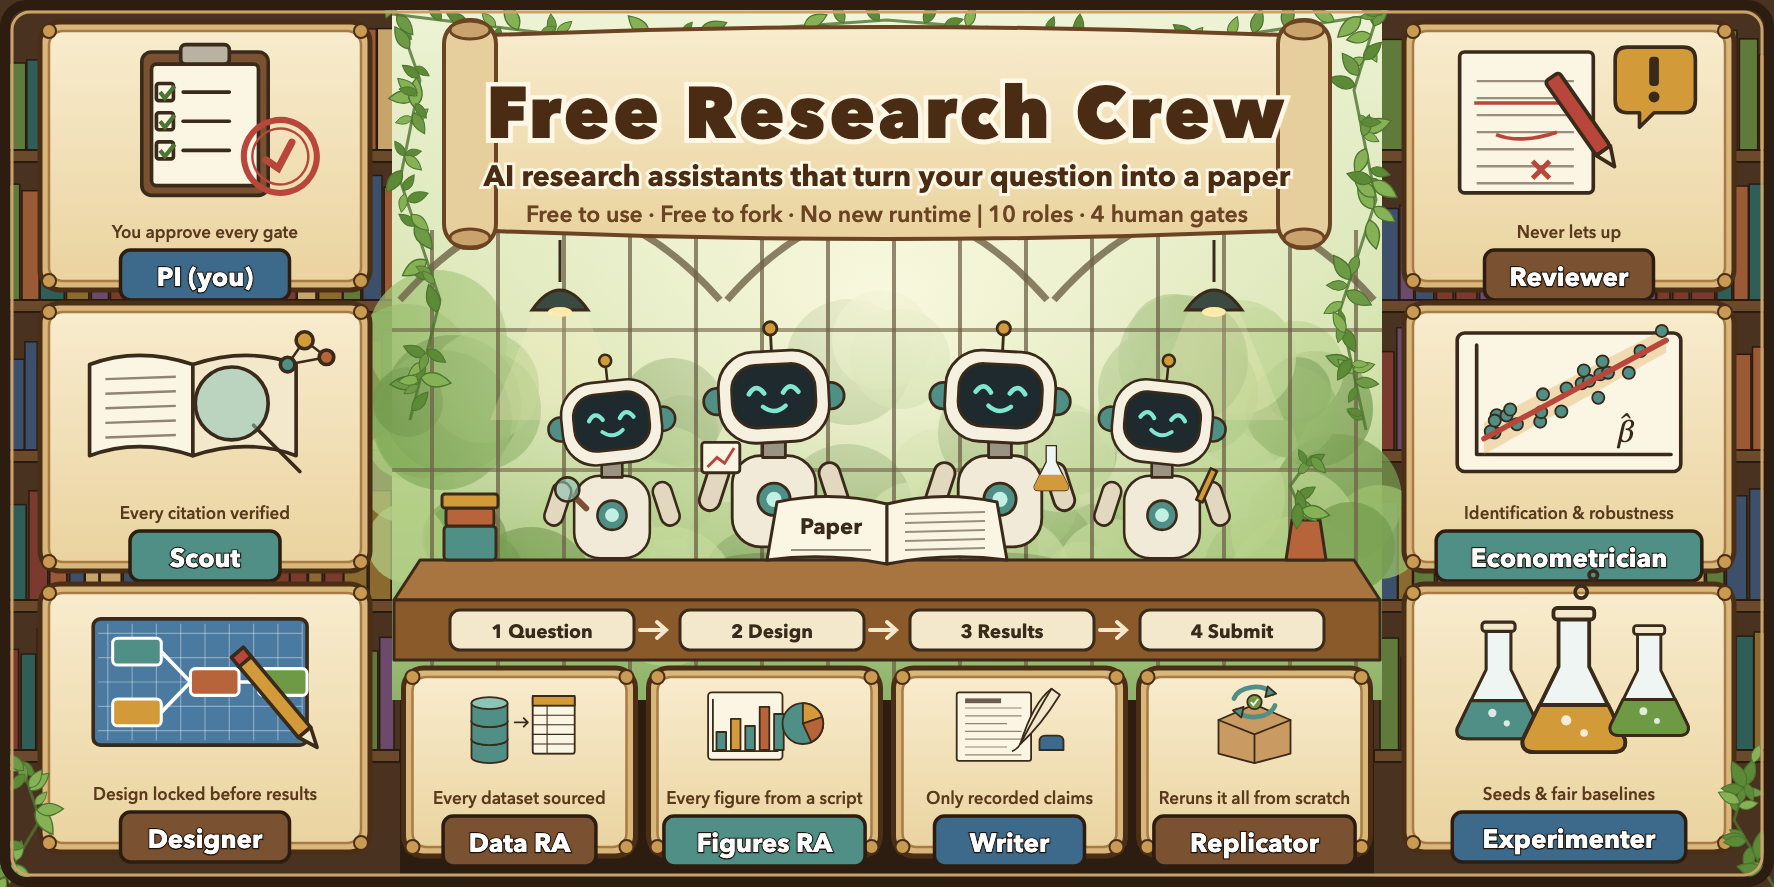
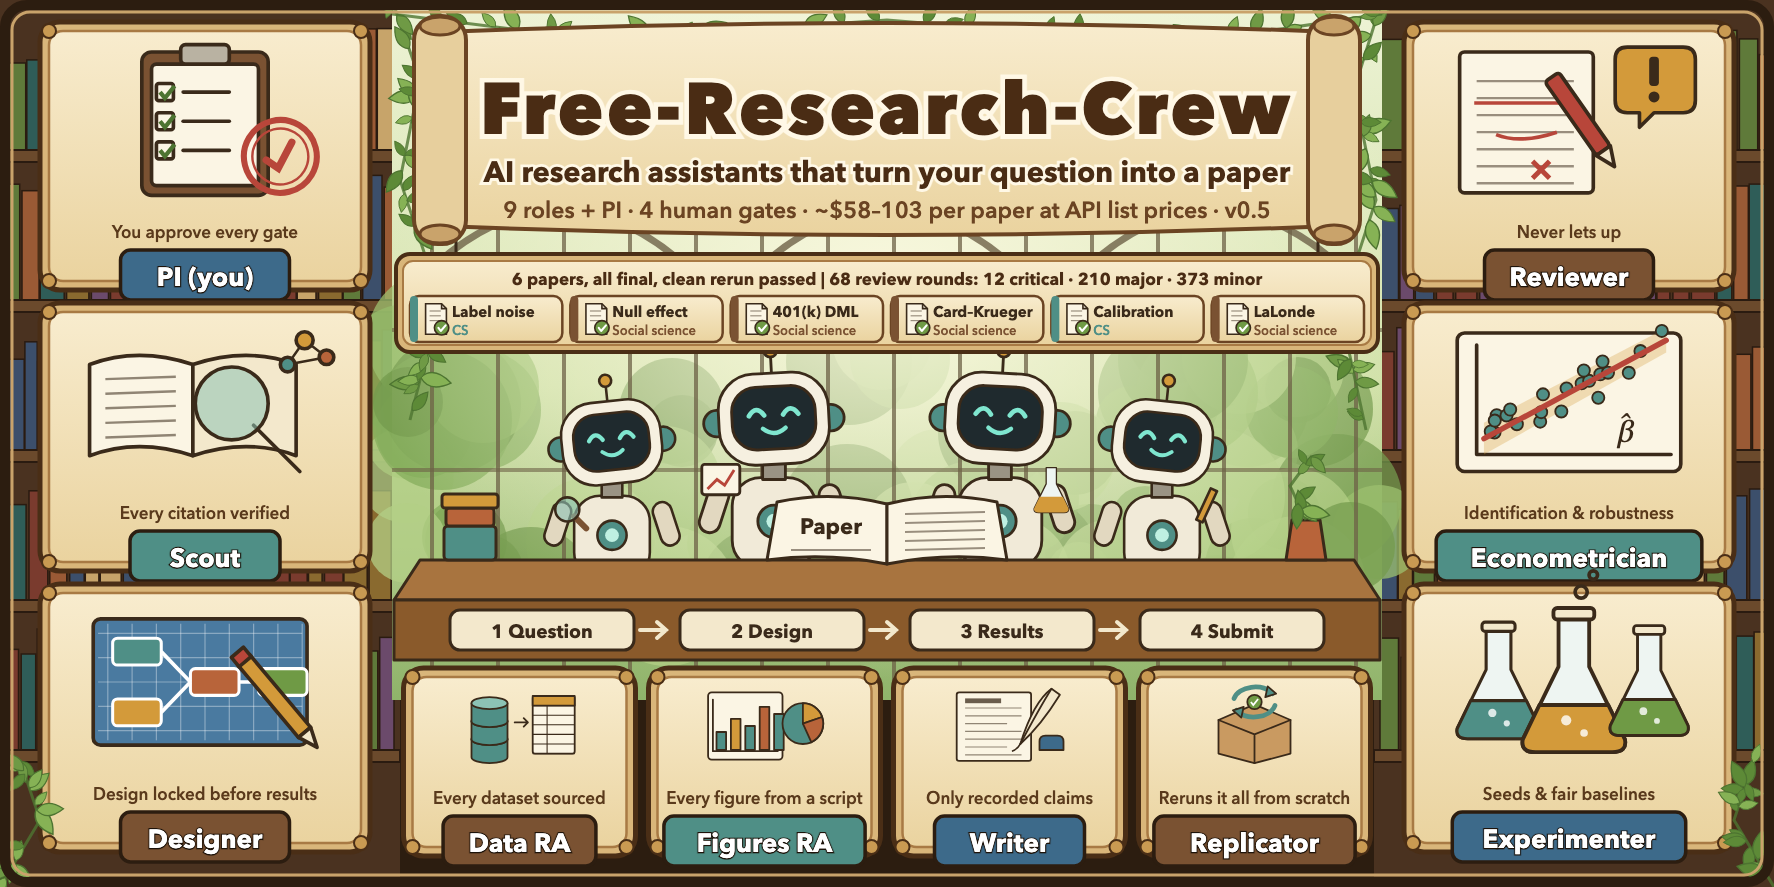
docs(readme): cover posters show the finished crew and its six gallery papers
Extend assets/poster/build_poster.py with a gallery shelf (six final papers,
68 review rounds, 12 critical / 210 major / 373 minor findings), a banner stats
line (9 roles + PI, 4 human gates, ~$58-103 per paper, v0.5) and the
Free-Research-Crew title; copy the rendered PNGs over readme_cn.png and readme.png.

Changed region(s): [[0.217, 0.0, 0.7751, 0.6392]]

diff --git a/assets/poster/build_poster.py b/assets/poster/build_poster.py
@@ -2,8 +2,10 @@
 """Build the "Free Research Crew" poster (CN + EN) as SVG, and PNG via headless Chrome.
 
 Same canvas (1774x887) and storybook palette as the README covers readme_cn.png /
-readme.png: a greenhouse library, a parchment title scroll, and framed parchment
-cards — here one card per crew role.
+readme.png: a greenhouse library, a parchment title scroll, framed parchment cards (one
+per crew role) and a gallery shelf with the six finished papers. The PNGs are copied
+over readme_cn.png / readme.png. Every number on the poster comes from gallery/README.md,
+gallery/scoreboard.json, gallery/usage.json and docs/launch/release-v0.5.md.
 
     python3 assets/poster/build_poster.py          # writes SVG + PNG next to this file
     python3 assets/poster/build_poster.py --svg-only
@@ -38,12 +40,20 @@ SLATE = "#3d6a8a"
 TEXT = {
     "cn": {
         "font": "'PingFang SC','Hiragino Sans GB','Noto Sans CJK SC',sans-serif",
-        "title": "免费助研团",
-        "title_size": 104,
+        "title": '<tspan font-size="41" letter-spacing="1">Free-Research-Crew</tspan> 免费助研团',
+        "title_size": 66,
         "subtitle": "一支 AI 助研团队，把你的研究问题做成一篇完整论文",
         "sub_size": 31,
-        "stats": "免费使用 · 自由修改 · 无需新环境 ｜ 10 个角色 · 4 道人工关卡",
+        "stats": "9 位助研 + PI · 4 道人工关卡 · 每篇约 $58–103（API 标价）· v0.5",
         "stats_size": 25,
+        "shelf": "论文画廊：6 篇全部定稿，干净重跑通过 ｜ 68 轮审稿：12 致命 · 210 重大 · 373 次要问题",
+        "shelf_size": 19,
+        "chip_size": 17,
+        "track": {"cs": "计算机", "ss": "社会科学"},
+        "papers": [
+            ("cs", "标签噪声"), ("ss", "零效应检验"), ("ss", "401(k) DML"),
+            ("ss", "最低工资"), ("cs", "概率校准"), ("ss", "LaLonde"),
+        ],
         "paper": "论文",
         "gates": ["① 问题", "② 设计", "③ 结果", "④ 投稿"],
         "gate_size": 22,
@@ -64,12 +74,20 @@ TEXT = {
     },
     "en": {
         "font": "'Avenir Next','Helvetica Neue',Arial,sans-serif",
-        "title": "Free Research Crew",
+        "title": "Free-Research-Crew",
         "title_size": 72,
         "subtitle": "AI research assistants that turn your question into a paper",
         "sub_size": 29,
-        "stats": "Free to use · Free to fork · No new runtime  |  10 roles · 4 human gates",
+        "stats": "9 roles + PI · 4 human gates · ~$58–103 per paper at API list prices · v0.5",
         "stats_size": 23,
+        "shelf": "6 papers, all final, clean rerun passed  |  68 review rounds: 12 critical · 210 major · 373 minor",
+        "shelf_size": 17,
+        "chip_size": 15,
+        "track": {"cs": "CS", "ss": "Social science"},
+        "papers": [
+            ("cs", "Label noise"), ("ss", "Null effect"), ("ss", "401(k) DML"),
+            ("ss", "Card–Krueger"), ("cs", "Calibration"), ("ss", "LaLonde"),
+        ],
         "paper": "Paper",
         "gates": ["1 Question", "2 Design", "3 Results", "4 Submit"],
         "gate_size": 19,
@@ -333,15 +351,6 @@ def greenhouse(rnd: random.Random) -> str:
     return out
 
 
-def lamp(x: float) -> str:
-    return (
-        f'<line x1="{x}" y1="240" x2="{x}" y2="282" stroke="{INK}" stroke-width="3"/>'
-        f'<path d="M{x - 28} 310 Q{x} 270 {x + 28} 310 Z" fill="#3b4a40" stroke="{INK}" stroke-width="3"/>'
-        f'<ellipse cx="{x}" cy="312" rx="12" ry="5" fill="#ffe9a8"/>'
-        f'<path d="M{x - 26} 312 L{x - 70} 420 L{x + 70} 420 L{x + 26} 312 Z" fill="#fff3c4" opacity=".22"/>'
-    )
-
-
 def robot(x: float, y: float, s: float, held: str, look: float = 0) -> str:
     """A friendly crew robot, feet at (x, y)."""
     held_svg = {
@@ -374,12 +383,11 @@ def robot(x: float, y: float, s: float, held: str, look: float = 0) -> str:
 
 
 def scene(t: dict) -> str:
-    out = lamp(560) + lamp(1214)
     # robots behind the desk
-    out += robot(612, 572, 0.86, "lens", -6)
-    out += robot(774, 562, 0.95, "chart", -3)
-    out += robot(1000, 562, 0.95, "flask", 3)
-    out += robot(1162, 572, 0.86, "pen", 6)
+    out = robot(612, 592, 0.86, "lens", -6)
+    out += robot(774, 584, 0.95, "chart", -3)
+    out += robot(1000, 584, 0.95, "flask", 3)
+    out += robot(1162, 592, 0.86, "pen", 6)
     # desk
     out += (
         f'<path d="M420 560 H1354 L1380 600 H394 Z" fill="#a8743f" {S} stroke-width="4"/>'
@@ -442,8 +450,44 @@ def card(x: float, y: float, w: float, h: float, role: str, color: str, t: dict)
     )
 
 
+def paper_chip(x: float, y: float, w: float, h: float, track: str, name: str, t: dict) -> str:
+    """One finished gallery paper: a small paper with a green 'final' seal, name and track."""
+    c = TEAL if track == "cs" else BROWN
+    return (
+        f'<rect x="{x}" y="{y}" width="{w}" height="{h}" rx="9" fill="url(#parch)" stroke="#6b4423" stroke-width="2.5"/>'
+        f'<rect x="{x}" y="{y}" width="8" height="{h}" rx="4" fill="{c}"/>'
+        f'<g transform="translate({x + 26} {y + h / 2}) scale(.8)">'
+        f'<path d="M-13 -19 H7 L13 -13 V19 H-13 Z" fill="{PAPER}" stroke="{INK}" stroke-width="2"/>'
+        f'<path d="M7 -19 V-13 H13" fill="none" stroke="{INK}" stroke-width="2"/>'
+        + "".join(f'<line x1="-8" y1="{-10 + i * 6}" x2="6" y2="{-10 + i * 6}" stroke="{INK}" stroke-width="1.5" opacity=".5"/>' for i in range(3))
+        + f'<circle cx="7" cy="11" r="9" fill="{GREEN}" stroke="{INK}" stroke-width="2"/>'
+        f'<path d="M3 11 l3 4 l6 -7" fill="none" stroke="#fff" stroke-width="2.6" stroke-linecap="round" stroke-linejoin="round"/>'
+        "</g>"
+        f'<text x="{x + 42}" y="{y + h / 2 - 2}" font-family="{t["font"]}" font-weight="700" font-size="{t["chip_size"]}" fill="{INK}">{name}</text>'
+        f'<text x="{x + 42}" y="{y + h / 2 + 16}" font-family="{t["font"]}" font-weight="600" font-size="13" fill="{c}">{t["track"][track]}</text>'
+    )
+
+
+def shelf(t: dict) -> str:
+    """The gallery strip under the scroll: six finished papers and the review totals."""
+    x0, x1, y0, y1 = 396, 1378, 254, 352
+    out = (
+        f'<line x1="{x0 + 60}" y1="236" x2="{x0 + 60}" y2="{y0}" stroke="{INK}" stroke-width="3"/>'
+        f'<line x1="{x1 - 60}" y1="236" x2="{x1 - 60}" y2="{y0}" stroke="{INK}" stroke-width="3"/>'
+        f'<rect x="{x0}" y="{y0}" width="{x1 - x0}" height="{y1 - y0}" rx="14" fill="#d9b67a" stroke="#4a2e16" stroke-width="4"/>'
+        f'<rect x="{x0 + 7}" y="{y0 + 7}" width="{x1 - x0 - 14}" height="{y1 - y0 - 14}" rx="10" fill="url(#parch)" stroke="#a87a44" stroke-width="2"/>'
+        f'<text x="{(x0 + x1) / 2}" y="{y0 + 31}" text-anchor="middle" font-family="{t["font"]}" font-weight="700" '
+        f'font-size="{t["shelf_size"]}" fill="#4a2c14">{t["shelf"]}</text>'
+    )
+    n, gap, pad = len(t["papers"]), 8, 14
+    cw = (x1 - x0 - 2 * pad - (n - 1) * gap) / n
+    for i, (track, name) in enumerate(t["papers"]):
+        out += paper_chip(x0 + pad + i * (cw + gap), y0 + 42, cw, 46, track, name, t)
+    return out
+
+
 def scroll(t: dict) -> str:
-    x0, x1, y0, y1 = 470, 1304, 26, 236
+    x0, x1, y0, y1 = 440, 1334, 22, 232
     out = (
         f'<path d="M{x0} {y0 + 10} Q887 {y0 - 8} {x1} {y0 + 10} L{x1} {y1 - 6} Q887 {y1 + 12} {x0} {y1 - 6} Z" '
         f'fill="url(#parch)" stroke="#6b4423" stroke-width="4"/>'
@@ -482,6 +526,7 @@ def build_svg(lang: str) -> str:
     parts.append(vine(rnd, [(1382, 0), (1354, 90), (1376, 200), (1340, 310), (1366, 430)], 40))
     parts.append(vine(rnd, [(392, 14), (600, 40), (887, 20), (1180, 44), (1382, 14)], 45))
     parts.append(scene(t))
+    parts.append(shelf(t))
     parts.append(scroll(t))
 
     side_w, side_h, gap = 330, 268, 13
